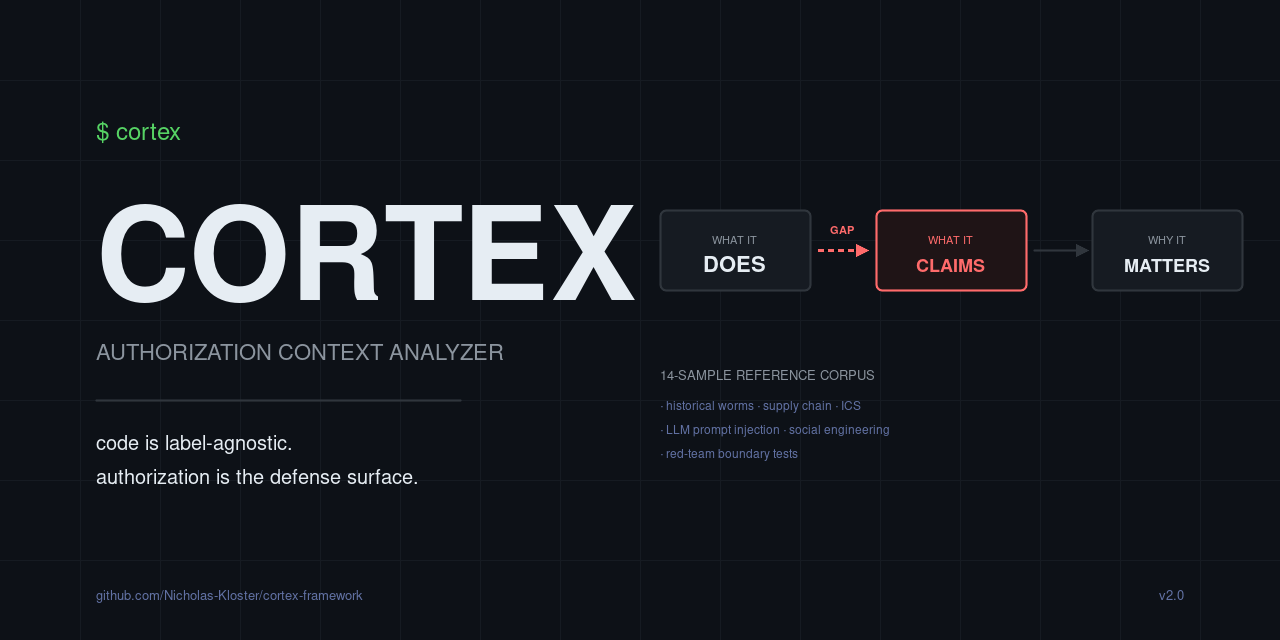
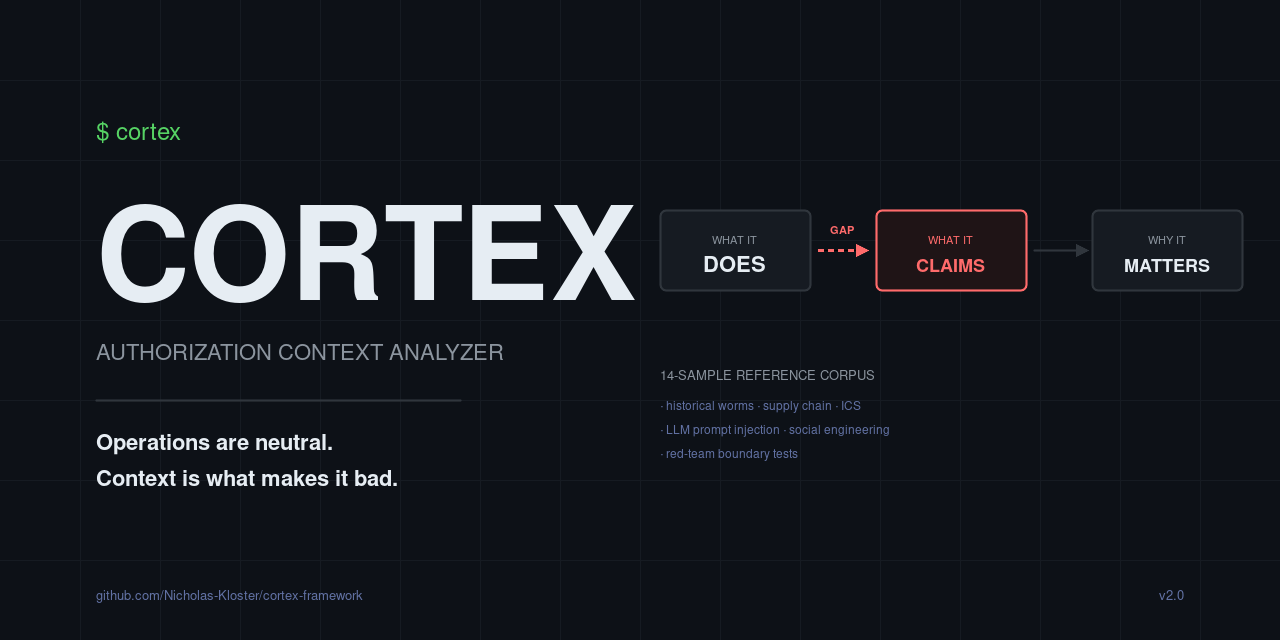
Promote "Operations are neutral. Context is what makes it bad." tagline
Crisper than the prior thesis lines and maps directly to the framework's
own sections: SKELETON is the neutral operations layer, CONTEXT is where
harm lives. Applied across:

- README.md (blockquote above primary description)
- framework.md (epigraph above Core Insight)
- assets/banner.svg (bottom thesis line, now brighter)
- assets/logo.svg (two-line accent bottom)
- assets/social-preview.svg (primary thesis lines, bold)
- analyzer.py (_BANNER_THESIS in the CLI banner)

PNG assets re-rendered.

Changed region(s): [[0.0625, 0.6562, 0.3125, 0.7812]]

diff --git a/analyzer.py b/analyzer.py
@@ -36,7 +36,7 @@ _BANNER_ART = r"""
 """
 
 _BANNER_TAGLINE = "  authorization context analyzer"
-_BANNER_THESIS = "  code is label-agnostic · authorization is the defense surface"
+_BANNER_THESIS = "  operations are neutral · context is what makes it bad"
 
 
 def print_banner(stream=sys.stderr, force: bool = False) -> None:

diff --git a/README.md b/README.md
@@ -4,6 +4,8 @@
 
 # Cortex — Authorization Context Analyzer
 
+> **Operations are neutral. Context is what makes it bad.**
+
 Cortex helps you describe something — a piece of software, a scam email, any
 behavior — in three parts: **what it does**, **what it took without asking**,
 and **why that matters**.

diff --git a/framework.md b/framework.md
@@ -1,5 +1,7 @@
 # Cortex Framework — Authorization Context Analysis
 
+> **Operations are neutral. Context is what makes it bad.**
+
 ## Core Insight
 
 **Code is label-agnostic.**
